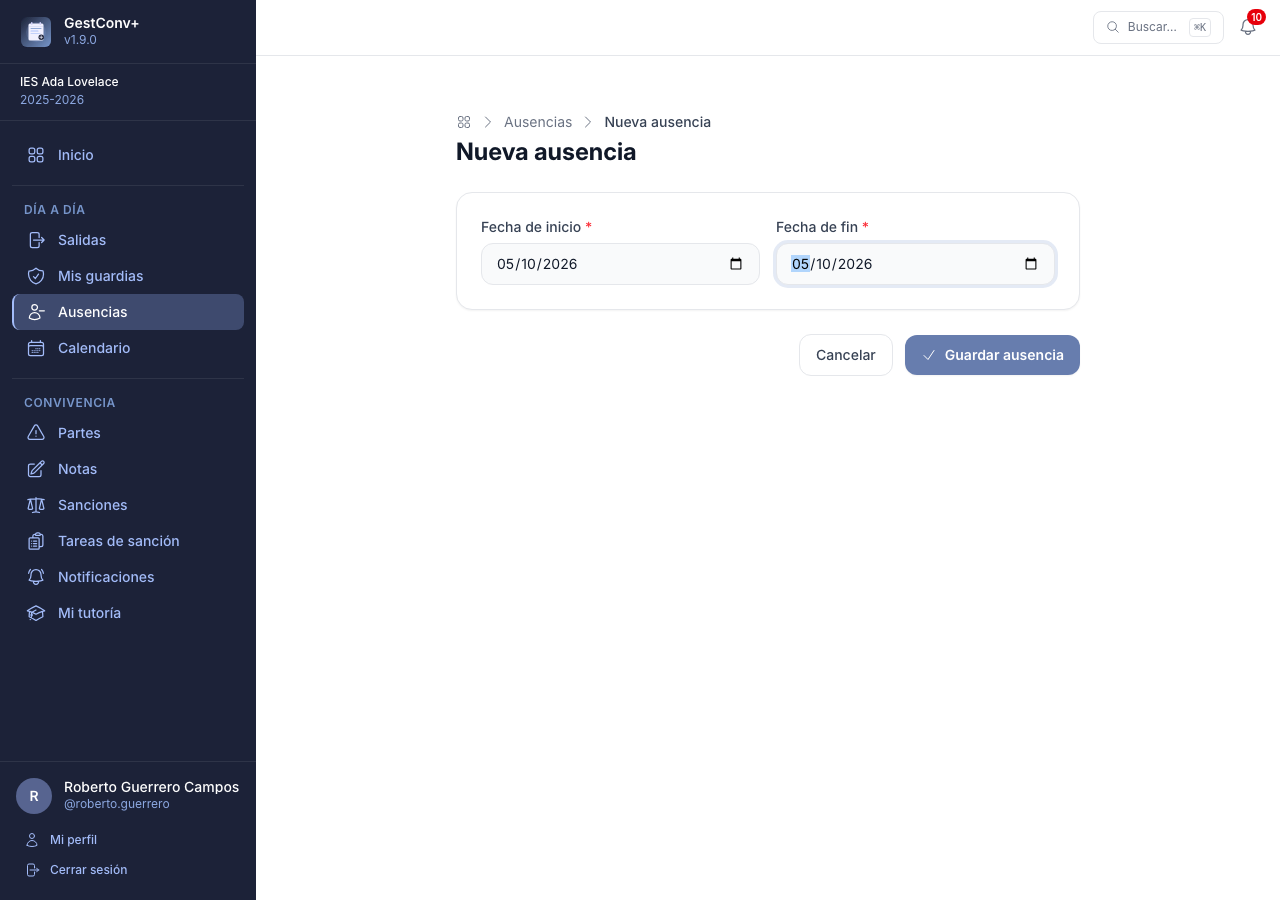
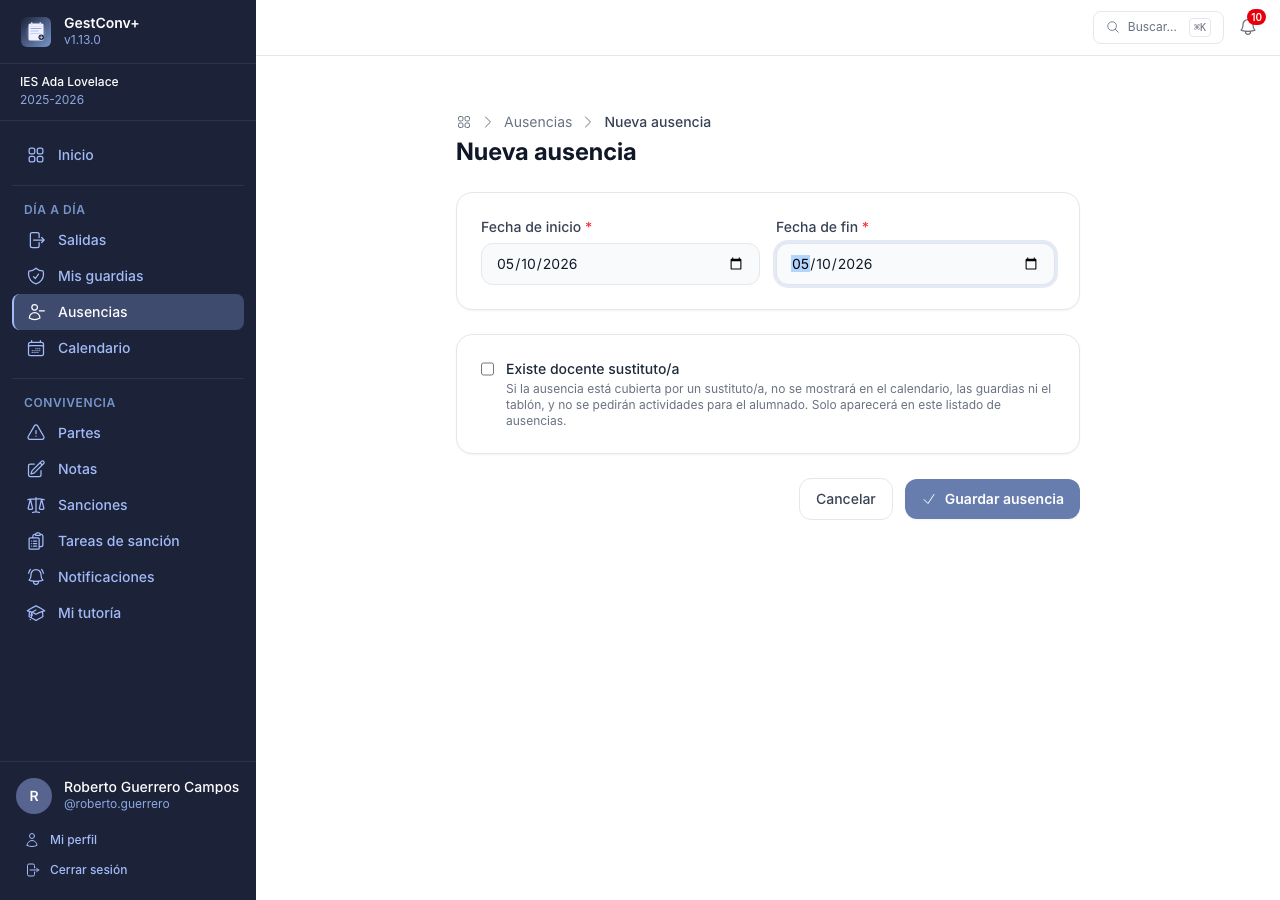
feat(absences): una ausencia puede marcarse con docente sustituto/a y entonces no se muestra ni pide actividades
Con la casilla marcada la ausencia desaparece del calendario, la vista de día, las guardias y el
tablón, no se pueden registrar tareas y solo aparece, con su etiqueta, en el listado de ausencias.

Claude-Session: https://claude.ai/code/session_01T5bQf589vbJe9wberdDbBm

Changed region(s): [[0.375, 0.3733, 0.8438, 0.4667], [0.625, 0.5289, 0.8438, 0.5911]]

diff --git a/src/Controller/AbsenceController.php b/src/Controller/AbsenceController.php
@@ -133,7 +133,7 @@ class AbsenceController extends AbstractController
 
         $today            = $this->clock->now()->format('Y-m-d');
         $errors           = [];
-        $formData         = ['start_date' => $today, 'end_date' => $today, 'teacher_id' => $isAdmin ? '' : $user->getId()->toRfc4122()];
+        $formData         = ['start_date' => $today, 'end_date' => $today, 'teacher_id' => $isAdmin ? '' : $user->getId()->toRfc4122(), 'has_substitute' => false];
         $selectedTeacher  = null;
 
         if ($request->isMethod('POST')) {
@@ -144,7 +144,8 @@ class AbsenceController extends AbstractController
             $startDateRaw = trim($request->request->getString('start_date'));
             $endDateRaw   = trim($request->request->getString('end_date'));
             $teacherIdRaw = $isAdmin ? trim($request->request->getString('teacher_id')) : $user->getId()->toRfc4122();
-            $formData     = ['start_date' => $startDateRaw, 'end_date' => $endDateRaw, 'teacher_id' => $teacherIdRaw];
+            $hasSubstitute = $request->request->getBoolean('has_substitute');
+            $formData     = ['start_date' => $startDateRaw, 'end_date' => $endDateRaw, 'teacher_id' => $teacherIdRaw, 'has_substitute' => $hasSubstitute];
 
             $startDate = self::parseDate($startDateRaw);
             $endDate   = self::parseDate($endDateRaw);
@@ -176,7 +177,8 @@ class AbsenceController extends AbstractController
                 $absence->setTeacher($targetTeacher)
                         ->setAcademicYear($year)
                         ->setStartDate($startDate)
-                        ->setEndDate($endDate);
+                        ->setEndDate($endDate)
+                        ->setHasSubstitute($hasSubstitute);
 
                 $this->em->persist($absence);
                 $this->em->flush();
@@ -234,6 +236,7 @@ class AbsenceController extends AbstractController
         $formData = [
             'start_date' => $absence->getStartDate()->format('Y-m-d'),
             'end_date'   => $absence->getEndDate()->format('Y-m-d'),
+            'has_substitute' => $absence->hasSubstitute(),
         ];
 
         if ($request->isMethod('POST')) {
@@ -241,9 +244,10 @@ class AbsenceController extends AbstractController
                 throw $this->createAccessDeniedException();
             }
 
-            $startDateRaw = trim($request->request->getString('start_date'));
-            $endDateRaw   = trim($request->request->getString('end_date'));
-            $formData     = ['start_date' => $startDateRaw, 'end_date' => $endDateRaw];
+            $startDateRaw  = trim($request->request->getString('start_date'));
+            $endDateRaw    = trim($request->request->getString('end_date'));
+            $hasSubstitute = $request->request->getBoolean('has_substitute');
+            $formData      = ['start_date' => $startDateRaw, 'end_date' => $endDateRaw, 'has_substitute' => $hasSubstitute];
 
             $startDate = self::parseDate($startDateRaw);
             $endDate   = self::parseDate($endDateRaw);
@@ -273,7 +277,7 @@ class AbsenceController extends AbstractController
             }
 
             if (empty($errors) && $startDate instanceof \DateTimeImmutable && $endDate instanceof \DateTimeImmutable) {
-                $absence->setStartDate($startDate)->setEndDate($endDate);
+                $absence->setStartDate($startDate)->setEndDate($endDate)->setHasSubstitute($hasSubstitute);
                 $this->em->flush();
 
                 $this->activityLog->log('absence.updated', [
@@ -332,6 +336,13 @@ class AbsenceController extends AbstractController
 
         $this->denyAccessUnlessGranted(AbsenceVoter::EDIT, $absence);
         $this->denyIfViewingPastYear($centre);
+
+        // Con docente sustituto/a la ausencia está cubierta: no se piden tareas.
+        if ($absence->hasSubstitute()) {
+            $this->addFlash('error', $this->t('activity.error.has_substitute'));
+
+            return $this->redirectToRoute('app_absences_show', ['id' => $id]);
+        }
 
         $owner = $absence->getTeacher();
 

diff --git a/tests/Integration/Controller/AbsenceControllerTest.php b/tests/Integration/Controller/AbsenceControllerTest.php
@@ -387,6 +387,35 @@ class AbsenceControllerTest extends ControllerTestCase
 
     // ── activities ───────────────────────────────────────────────────────────
 
+    public function testAbsenceCanBeMarkedWithASubstituteAndThenRefusesActivities(): void
+    {
+        [$teacher, $centre, $year] = $this->makeScenario();
+        $absence = $this->makeAbsence($teacher, $year);
+        $this->loginAs($teacher, $centre);
+
+        // El formulario de edición ofrece la casilla y la guarda.
+        $crawler = $this->client->request('GET', '/ausencias/' . $absence->getId()->toRfc4122() . '/editar');
+        self::assertSelectorExists('input[name="has_substitute"]');
+        $token = $crawler->filter('form[action$="/editar"] [name="_token"]')->attr('value');
+        $this->client->request('POST', '/ausencias/' . $absence->getId()->toRfc4122() . '/editar', [
+            '_token'         => $token,
+            'start_date'     => $absence->getStartDate()->format('Y-m-d'),
+            'end_date'       => $absence->getEndDate()->format('Y-m-d'),
+            'has_substitute' => '1',
+        ]);
+        self::assertResponseRedirects();
+        $this->em->clear();
+        $saved = $this->em->getRepository(Absence::class)->findAll()[0];
+        self::assertTrue($saved->hasSubstitute());
+
+        // La ficha avisa y no ofrece «Nueva actividad»; la dirección tampoco puede crearlas por URL.
+        $crawler = $this->client->request('GET', '/ausencias/' . $saved->getId()->toRfc4122());
+        self::assertSelectorTextContains('body', 'Con sustituto/a');
+        self::assertCount(0, $crawler->filter('a[href$="/actividades/nueva"]'));
+        $this->client->request('GET', '/ausencias/' . $saved->getId()->toRfc4122() . '/actividades/nueva');
+        self::assertResponseRedirects('/ausencias/' . $saved->getId()->toRfc4122());
+    }
+
     public function testActivityNewGetRendersFormWithSubjectsAndTimeSlots(): void
     {
         [$teacher, $centre, $year] = $this->makeScenario();

diff --git a/src/Repository/AbsenceRepository.php b/src/Repository/AbsenceRepository.php
@@ -33,7 +33,11 @@ class AbsenceRepository extends ServiceEntityRepository
         return $result instanceof Absence ? $result : null;
     }
 
-    /** @return list<Absence> */
+    /**
+     * Las ausencias del curso para el calendario. Las que tienen docente sustituto/a no se muestran.
+     *
+     * @return list<Absence>
+     */
     public function findWithDatesForAcademicYear(AcademicYear $year): array
     {
         /** @var list<Absence> $result */
@@ -41,6 +45,7 @@ class AbsenceRepository extends ServiceEntityRepository
             ->addSelect('t')
             ->join('a.teacher', 't')
             ->where('a.academicYear = :year')
+            ->andWhere('a.hasSubstitute = false')
             ->setParameter('year', $year->getId(), 'uuid')
             ->orderBy('a.startDate', 'ASC')
             ->getQuery()
@@ -49,7 +54,11 @@ class AbsenceRepository extends ServiceEntityRepository
         return $result;
     }
 
-    /** @return list<Teacher> */
+    /**
+     * El profesorado ausente un día, sin las ausencias que tienen docente sustituto/a (están cubiertas).
+     *
+     * @return list<Teacher>
+     */
     public function findTeachersAbsentOn(AcademicYear $year, \DateTimeImmutable $date): array
     {
         $em = $this->getEntityManager();
@@ -58,6 +67,7 @@ class AbsenceRepository extends ServiceEntityRepository
         $teacherIds = $this->createQueryBuilder('a')
             ->select('IDENTITY(a.teacher)')
             ->where('a.academicYear = :year')
+            ->andWhere('a.hasSubstitute = false')
             ->andWhere('a.startDate <= :date')
             ->andWhere('a.endDate >= :date')
             ->setParameter('year', $year->getId(), 'uuid')

diff --git a/tests/Integration/Repository/AbsenceRepositoryTest.php b/tests/Integration/Repository/AbsenceRepositoryTest.php
@@ -68,6 +68,26 @@ class AbsenceRepositoryTest extends RepositoryTestCase
         self::assertSame($inside->getId()->toRfc4122(), $results[0]->getId()->toRfc4122());
     }
 
+    public function testAbsencesWithASubstituteAreOnlyInTheListing(): void
+    {
+        $year    = $this->makeYear();
+        $covered = $this->makeAbsence($year, $this->makeTeacher('covered'), '2026-01-10', '2026-01-12');
+        $covered->setHasSubstitute(true);
+        $open = $this->makeAbsence($year, $this->makeTeacher('open'), '2026-01-10', '2026-01-12');
+        $this->flush();
+
+        // El listado de ausencias las trae todas; el calendario y «quién falta hoy» no traen las cubiertas.
+        self::assertCount(2, $this->repo->createFilteredQuery($year)->getResult());
+        self::assertSame(
+            [$open->getId()->toRfc4122()],
+            array_map(static fn (Absence $a): string => $a->getId()->toRfc4122(), $this->repo->findWithDatesForAcademicYear($year)),
+        );
+        self::assertSame(
+            [$open->getTeacher()->getId()->toRfc4122()],
+            array_map(static fn (Teacher $t): string => $t->getId()->toRfc4122(), $this->repo->findTeachersAbsentOn($year, new \DateTimeImmutable('2026-01-11'))),
+        );
+    }
+
     public function testCreateFilteredQueryIgnoresInvalidDates(): void
     {
         $year = $this->makeYear();

diff --git a/tests/Integration/Service/DayDetailBuilderTest.php b/tests/Integration/Service/DayDetailBuilderTest.php
@@ -43,6 +43,25 @@ class DayDetailBuilderTest extends RepositoryTestCase
         self::assertSame($world['student']->getId()->toRfc4122(), $report->sanctionedStudents[0]->student->getId()->toRfc4122());
     }
 
+    public function testAnAbsenceWithASubstituteIsNotShownInTheDay(): void
+    {
+        $world   = $this->makeWorld('substitute');
+        $absence = $this->makeAbsence($world, new \DateTimeImmutable('2026-03-10'));
+        $slot    = $this->makeSlot($world, 'Tramo 1', '08:00', '09:00');
+        $this->persist((new \App\Entity\Activity())->setAbsence($absence)->setDate(new \DateTimeImmutable('2026-03-10'))
+            ->setTimeSlot($slot)->setDescription('<p>Tarea</p>'));
+
+        $report = $this->builder->build($world['year'], null, true, new \DateTimeImmutable('2026-03-10'));
+        self::assertCount(1, $report->absentTeachers, 'sin sustituto/a se muestra');
+
+        $absence->setHasSubstitute(true);
+        $this->flush();
+        $report = $this->builder->build($world['year'], null, true, new \DateTimeImmutable('2026-03-10'));
+
+        self::assertCount(0, $report->absentTeachers);
+        self::assertCount(0, $report->timeSlots[0]->activities, 'ni sus tareas');
+    }
+
     public function testBuildIncludesAbsenceOnlyForAdmin(): void
     {
         $world = $this->makeWorld('absences');

diff --git a/migrations/mysql/Version20260101000059.php b/migrations/mysql/Version20260101000059.php
@@ -1,0 +1,37 @@
+<?php
+
+declare(strict_types=1);
+
+namespace DoctrineMigrations;
+
+use Doctrine\DBAL\Platforms\AbstractMySQLPlatform;
+use Doctrine\DBAL\Schema\Schema;
+use Doctrine\Migrations\AbstractMigration;
+
+final class Version20260101000059 extends AbstractMigration
+{
+    public function getDescription(): string
+    {
+        return 'Añade absence.has_substitute: la ausencia tiene docente sustituto/a y no se muestra ni pide tareas (MySQL / MariaDB)';
+    }
+
+    public function up(Schema $schema): void
+    {
+        $this->abortIf(
+            !$this->connection->getDatabasePlatform() instanceof AbstractMySQLPlatform,
+            'Esta migración sólo puede ejecutarse en MySQL o MariaDB.'
+        );
+
+        $this->addSql('ALTER TABLE absence ADD has_substitute TINYINT(1) NOT NULL DEFAULT 0');
+    }
+
+    public function down(Schema $schema): void
+    {
+        $this->abortIf(
+            !$this->connection->getDatabasePlatform() instanceof AbstractMySQLPlatform,
+            'Esta migración sólo puede ejecutarse en MySQL o MariaDB.'
+        );
+
+        $this->addSql('ALTER TABLE absence DROP COLUMN has_substitute');
+    }
+}

diff --git a/migrations/postgresql/Version20260101000059.php b/migrations/postgresql/Version20260101000059.php
@@ -1,0 +1,37 @@
+<?php
+
+declare(strict_types=1);
+
+namespace DoctrineMigrations;
+
+use Doctrine\DBAL\Platforms\PostgreSQLPlatform;
+use Doctrine\DBAL\Schema\Schema;
+use Doctrine\Migrations\AbstractMigration;
+
+final class Version20260101000059 extends AbstractMigration
+{
+    public function getDescription(): string
+    {
+        return 'Añade absence.has_substitute: la ausencia tiene docente sustituto/a y no se muestra ni pide tareas (PostgreSQL)';
+    }
+
+    public function up(Schema $schema): void
+    {
+        $this->abortIf(
+            !$this->connection->getDatabasePlatform() instanceof PostgreSQLPlatform,
+            'Esta migración sólo puede ejecutarse en PostgreSQL.'
+        );
+
+        $this->addSql('ALTER TABLE absence ADD has_substitute BOOLEAN NOT NULL DEFAULT FALSE');
+    }
+
+    public function down(Schema $schema): void
+    {
+        $this->abortIf(
+            !$this->connection->getDatabasePlatform() instanceof PostgreSQLPlatform,
+            'Esta migración sólo puede ejecutarse en PostgreSQL.'
+        );
+
+        $this->addSql('ALTER TABLE absence DROP COLUMN has_substitute');
+    }
+}

diff --git a/migrations/sqlite/Version20260101000059.php b/migrations/sqlite/Version20260101000059.php
@@ -1,0 +1,37 @@
+<?php
+
+declare(strict_types=1);
+
+namespace DoctrineMigrations;
+
+use Doctrine\DBAL\Platforms\SqlitePlatform;
+use Doctrine\DBAL\Schema\Schema;
+use Doctrine\Migrations\AbstractMigration;
+
+final class Version20260101000059 extends AbstractMigration
+{
+    public function getDescription(): string
+    {
+        return 'Añade absence.has_substitute: la ausencia tiene docente sustituto/a y no se muestra ni pide tareas (SQLite)';
+    }
+
+    public function up(Schema $schema): void
+    {
+        $this->abortIf(
+            !$this->connection->getDatabasePlatform() instanceof SqlitePlatform,
+            'Esta migración sólo puede ejecutarse en SQLite.'
+        );
+
+        $this->addSql('ALTER TABLE absence ADD has_substitute INTEGER NOT NULL DEFAULT 0');
+    }
+
+    public function down(Schema $schema): void
+    {
+        $this->abortIf(
+            !$this->connection->getDatabasePlatform() instanceof SqlitePlatform,
+            'Esta migración sólo puede ejecutarse en SQLite.'
+        );
+
+        $this->addSql('ALTER TABLE absence DROP COLUMN has_substitute');
+    }
+}

diff --git a/src/Repository/ActivityRepository.php b/src/Repository/ActivityRepository.php
@@ -32,7 +32,11 @@ class ActivityRepository extends ServiceEntityRepository
         return $result instanceof Activity ? $result : null;
     }
 
-    /** @return Activity[] */
+    /**
+     * Las tareas de las ausencias de un día; las de ausencias con docente sustituto/a no cuentan.
+     *
+     * @return Activity[]
+     */
     public function findByAcademicYearAndDate(AcademicYear $year, \DateTimeImmutable $date): array
     {
         return $this->createQueryBuilder('act')
@@ -42,6 +46,7 @@ class ActivityRepository extends ServiceEntityRepository
             ->leftJoin('act.subjects', 's')
             ->addSelect('s')
             ->where('ab.academicYear = :year')
+            ->andWhere('ab.hasSubstitute = false')
             ->andWhere('act.date = :date')
             ->setParameter('year', $year->getId(), 'uuid')
             ->setParameter('date', $date, Types::DATE_IMMUTABLE)

diff --git a/src/Entity/Absence.php b/src/Entity/Absence.php
@@ -39,9 +39,28 @@ class Absence
     #[ORM\OrderBy(['date' => 'ASC'])]
     private Collection $activities;
 
+    /**
+     * Existe docente sustituto/a: la ausencia queda cubierta, así que no se muestra en el calendario, el tablón ni las
+     * guardias y no se piden actividades; solo aparece en el listado de ausencias de quien puede verlas.
+     */
+    #[ORM\Column(options: ['default' => false])]
+    private bool $hasSubstitute = false;
+
     public function __construct()
     {
         $this->activities = new ArrayCollection();
+    }
+
+    public function hasSubstitute(): bool
+    {
+        return $this->hasSubstitute;
+    }
+
+    public function setHasSubstitute(bool $hasSubstitute): static
+    {
+        $this->hasSubstitute = $hasSubstitute;
+
+        return $this;
     }
 
     public function getId(): Uuid

diff --git a/docs/manual/03-el-trabajo-diario.md b/docs/manual/03-el-trabajo-diario.md
@@ -570,7 +570,13 @@ clase) ve directamente el listado de ausencias del centro, sin pestañas.
    ausencia (por defecto, uno mismo).
 3. Indica la **fecha de inicio** y la **fecha de fin** del periodo en el que se estará ausente.
    Ambas son obligatorias y la fecha de fin no puede ser anterior a la de inicio.
-4. Guarda: se abre el detalle de la ausencia, todavía sin actividades.
+4. Si la ausencia ya está cubierta por un **sustituto/a**, marca **Existe docente sustituto/a**
+   (se puede marcar o desmarcar también al editarla). Una ausencia con sustituto/a **no se
+   muestra** en el calendario, la vista de día, las guardias ni el tablón, y **no se piden
+   actividades** para el alumnado (el botón *Nueva actividad* desaparece); solo aparece, con la
+   etiqueta *Con sustituto/a*, en el listado de ausencias de quienes pueden verla: su docente y los
+   administradores.
+5. Guarda: se abre el detalle de la ausencia, todavía sin actividades.
 
 ### Añadir actividades
 

diff --git a/docs/manual/05-calendario-y-tablon.md b/docs/manual/05-calendario-y-tablon.md
@@ -21,7 +21,8 @@ quien la consulta:
 - **Ausencias del profesorado** (solo administradores de centro, ver
   [Ausencias](03-el-trabajo-diario.md#ausencias)): se colorean en ámbar con el icono de un docente
   y muestran únicamente el nombre de quien está ausente, sin grupo ni descripción. El resto del
-  profesorado no las ve en su calendario.
+  profesorado no las ve en su calendario. Las ausencias marcadas con **docente sustituto/a** no
+  aparecen (ni en el calendario, ni en la vista de día, las guardias o el tablón).
 - **Actividades de centro** (ver más abajo): se colorean con el color del primer grupo asociado si
   están restringidas a grupos, o en azul con el icono de un megáfono si son generales, y muestran
   la hora seguida del nombre de la actividad.
